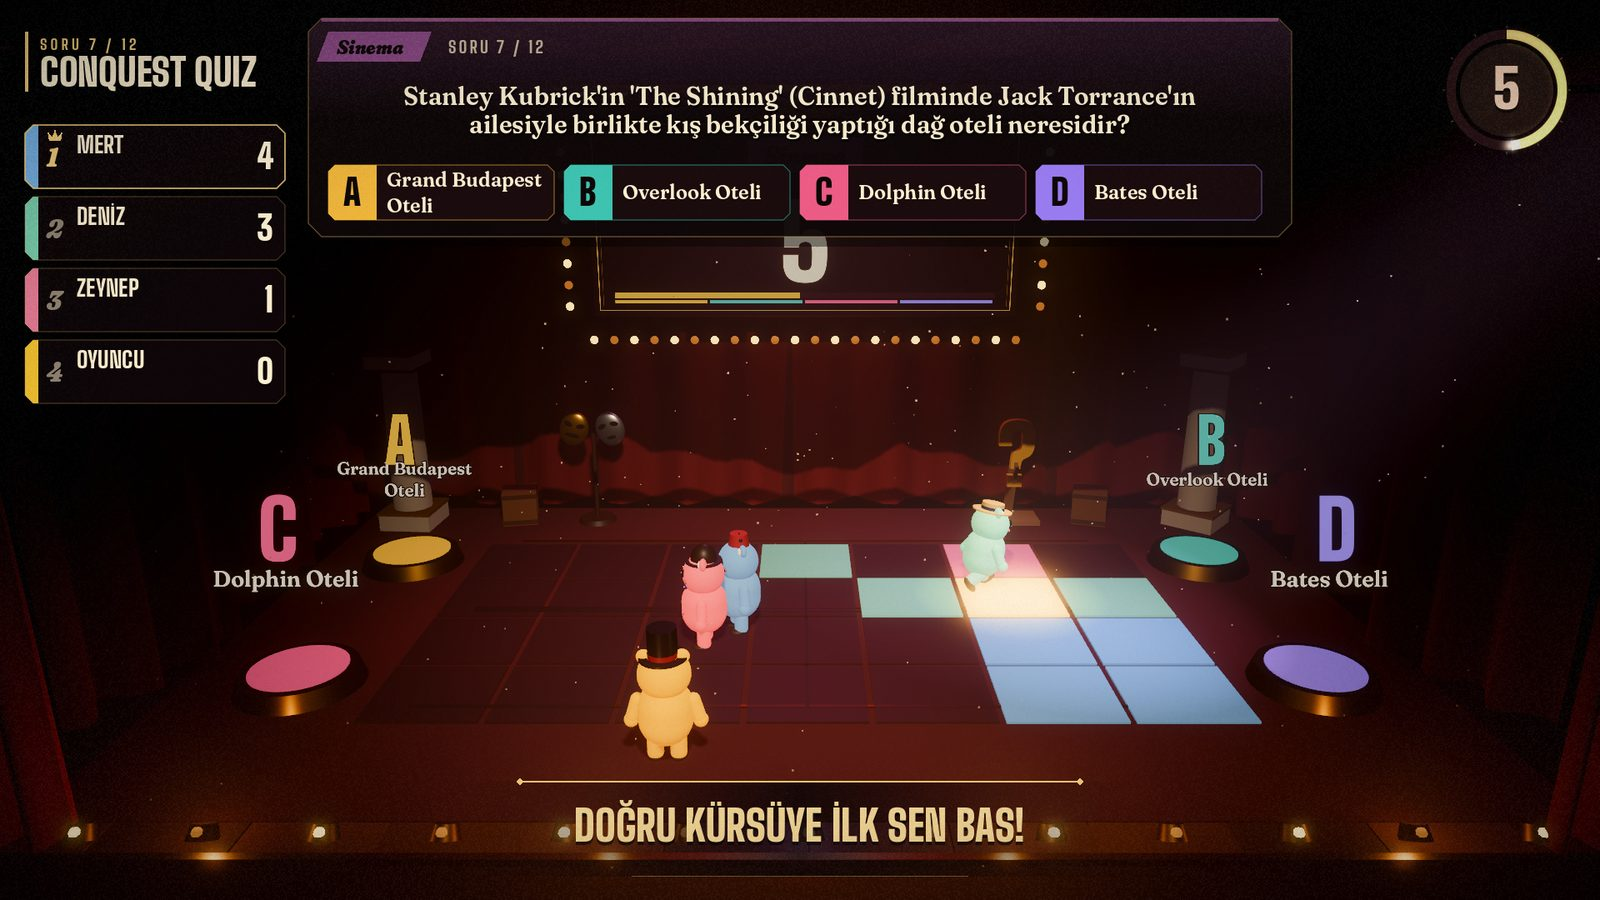
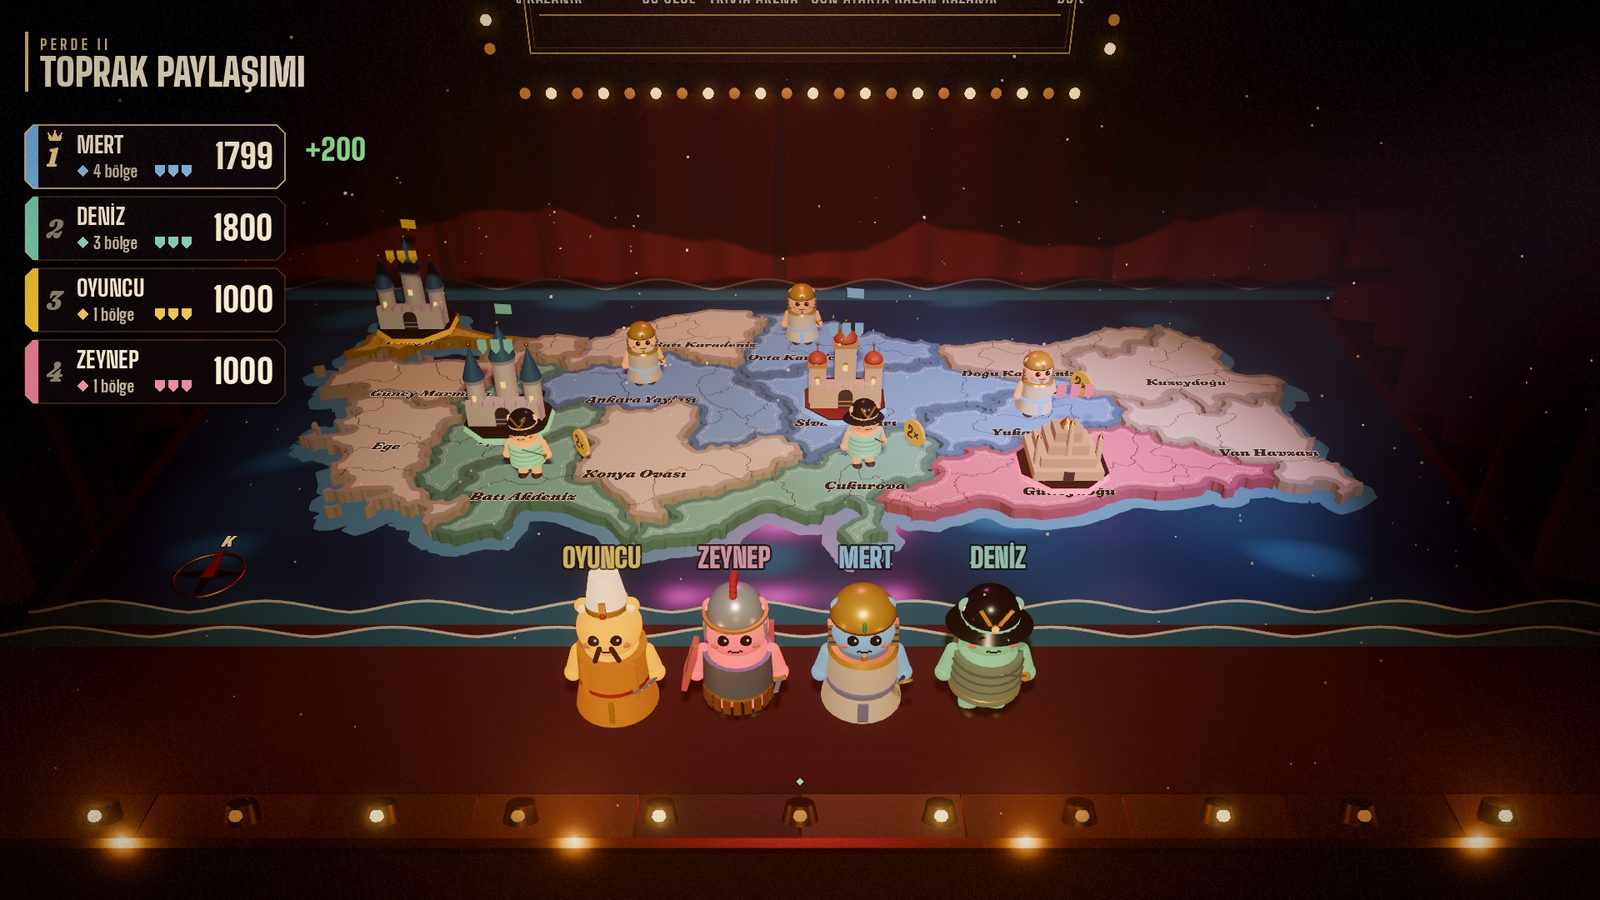
README: Conquest, kostüm ve kale görselleri
Claude-Session: https://claude.ai/code/session_01Y8aKUDWh4HBY3NVrYJ7tJA

diff --git a/README.md b/README.md
@@ -18,8 +18,12 @@ Fizik motoruyla çalışan, kaotik bir 3D parti bilgi yarışması. Kırmızı k
 | **Güç turu:** en hızlı doğru 400 puan çalar ya da sabote eder | **Can turu:** yalnız en hızlı doğru kurtulur |
 | ![Final](docs/screenshots/result.jpg) | ![Conquest Quiz](docs/screenshots/conquest.jpg) |
 | **Final:** konfeti, karne, rövanş | **Conquest Quiz:** keçe Türkiye haritasında kaleler ve düellolar |
-| ![Kostüm odası](docs/screenshots/wardrobe.jpg) | ![Ev partisi](docs/screenshots/house.jpg) |
-| **Kostüm odası:** şapka, bıyık, papyon, kumaş | **Ev partisi:** QR'ı okut, telefonun kumanda olsun |
+| ![Conquest tahmin](docs/screenshots/cq_estimate.jpg) | ![Conquest düello](docs/screenshots/cq_duel.jpg) |
+| **Conquest tahmini:** en yakın tahmin önce seçer | **Conquest düellosu:** saldıran ve savunan aynı soruda |
+| ![Kültür kostümleri](docs/screenshots/costumes.jpg) | ![Kaleler](docs/screenshots/castles.jpg) |
+| **On kültür kostümü** | **Altı kale üslubu, 3 kule = 3 can** |
+| ![Kostüm odası](docs/screenshots/wardrobe_cq.jpg) | ![Ev partisi](docs/screenshots/house.jpg) |
+| **Kostüm odası:** Trivia ve Fetih sekmeleri | **Ev partisi:** QR'ı okut, telefonun kumanda olsun |
 
 ## Çalıştırma
 
